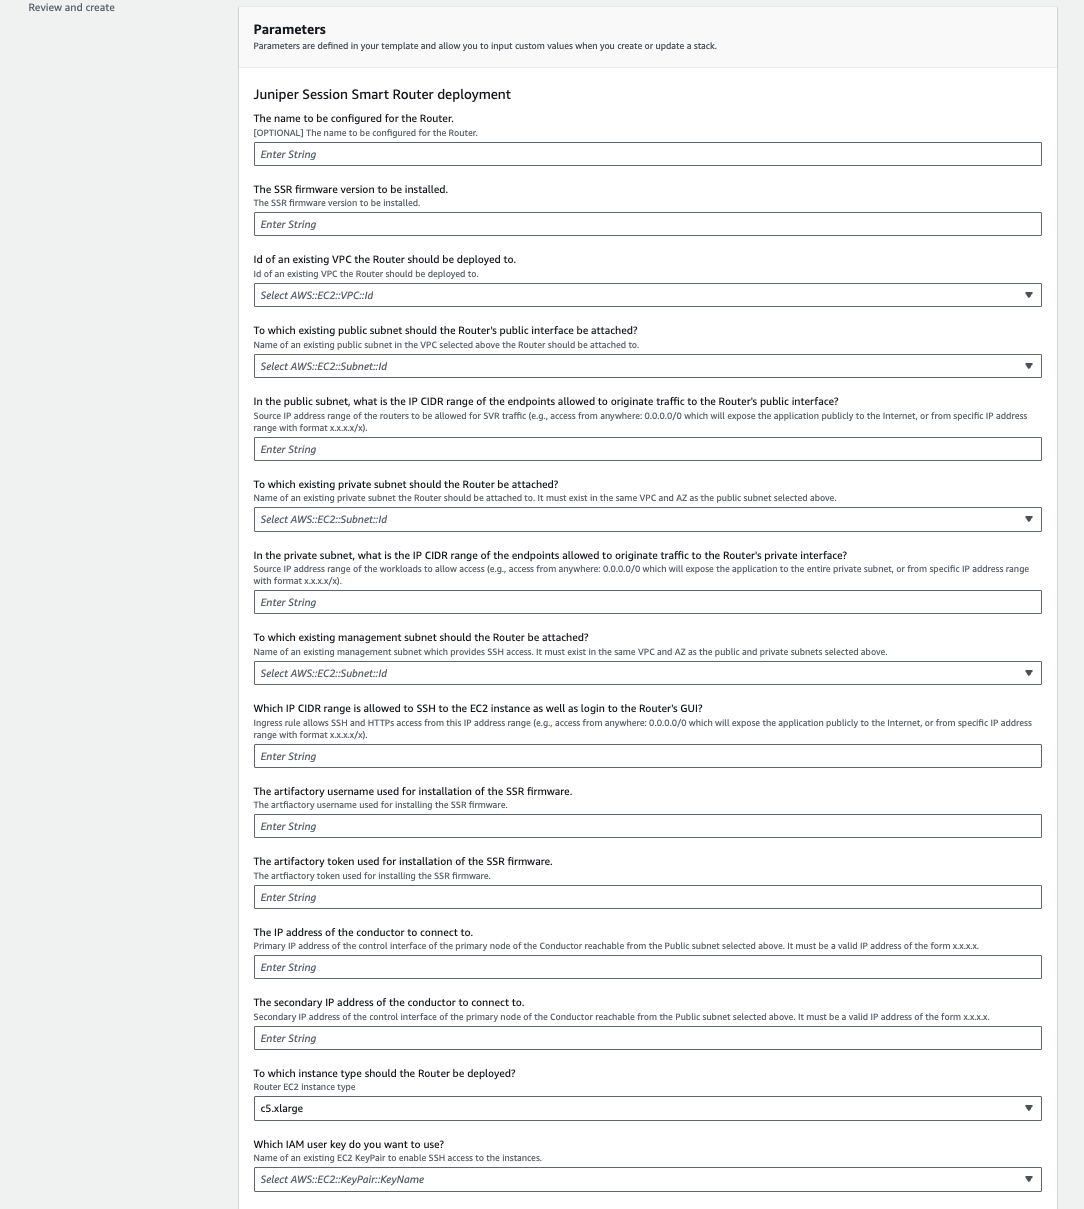
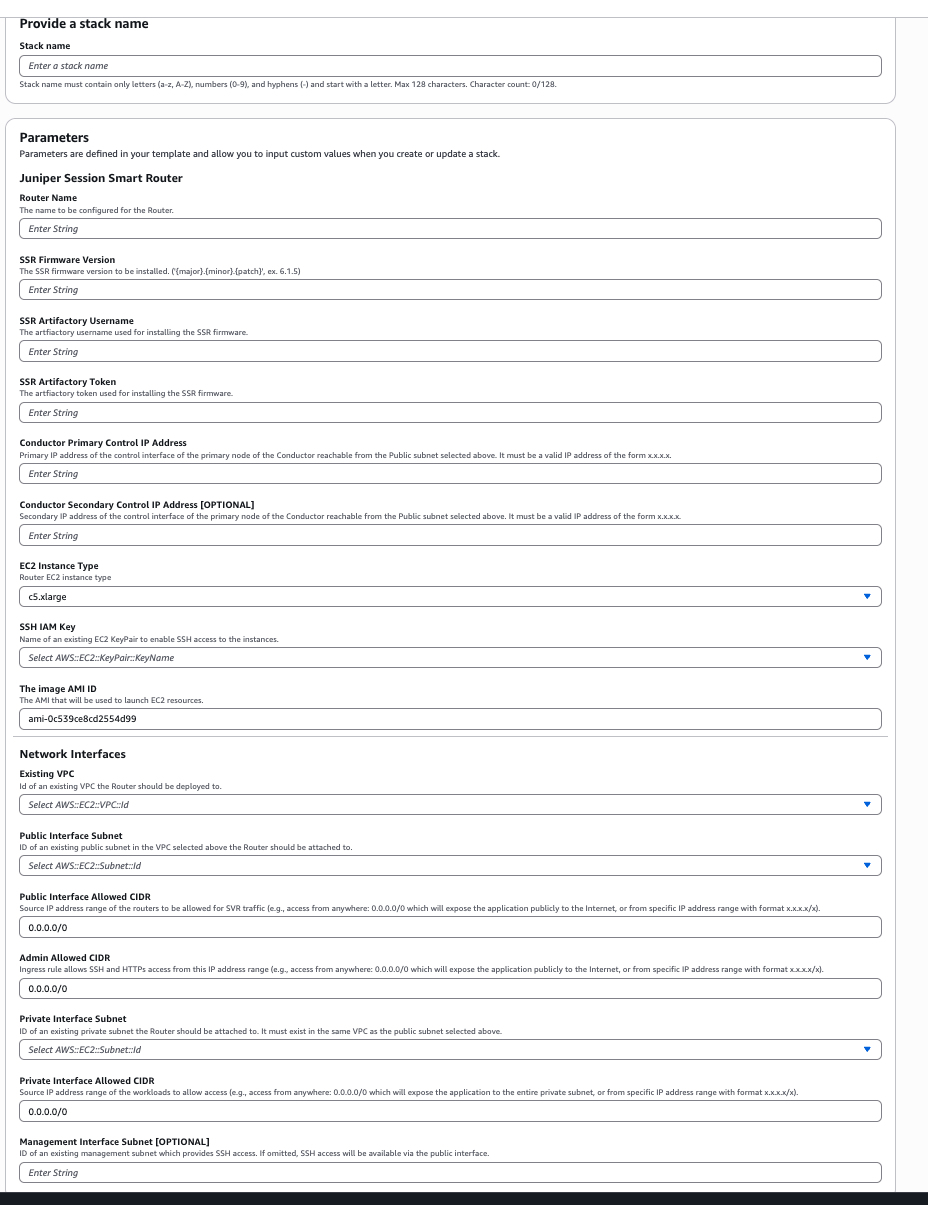
AWS byol 3.0

Changed region(s): [[0.0, 0.0, 1.0, 1.0], [0.9375, 0.1842, 0.9688, 0.2456]]

diff --git a/sidebars.js b/sidebars.js
@@ -68,6 +68,7 @@ module.exports = {
         "type": "category",
         "label": "BYOL Cloud Images",
         "items": [
+          "release_notes_byol_3.0",
           "release_notes_byol_2.0",
           "release_notes_byol"
         ]

diff --git a/docs/intro_installation_quickstart_byol_conductor_aws.md b/docs/intro_installation_quickstart_byol_conductor_aws.md
@@ -64,12 +64,12 @@ To deploy the Session Smart Networking software via the AWS Console:
 7. Answer the following questions to launch the deployment of an SSR. For a description of the parameters of the template, please refer to [Launch the Conductor Template](#launch-the-conductor-template).
 
 - What name do you want to give the instance?
-  - Provide it in the **Stack name** field (for example: Conductor).
+  - Provide it in the **Conductor Name** field (for example: conductor).
 - What version of SSR software do you want to install?
+- What are the artifactory credentials used to install the software?
 - Where do you want to deploy it?
   - Select the VPC in the region.
   - Select the subnet within the VPC.
-- What are the artifactory credentials used to install the software?
 - Who is going to be the administrator?
   - Select the IAM user key.
 8. Click **Next**.
@@ -110,7 +110,8 @@ write_files:
             "mode": "conductor",
             "artifactory-user": "<username>",
             "artifactory-password": "<password>",
-            "node-name": "node0"
+            "node-name": "node0",
+            "cloud-provider": "aws"
         }
 ```
 
@@ -143,14 +144,15 @@ A description of the parameters of the template are listed in the following tabl
 
 | Parameter            | Description |
 | -------------------- | ----------- |
-| Stack name           | The Instance Name field provides a name to the VM for the device.|
-| VPC ID               | ID of the existing VPC where the device is going to be deployed. |
-| Public Subnet ID     | ID of the management subnet within the VPC. |
-| Public Subnet Allowed CIDR | The IP CIDR range of the endpoints allowed to originate traffic to the Conductor's management interface in the management subnet. |
+| Name           | The Instance Name field provides a name to the VM for the device.|
+| Instance Type        | Size of the EC2 instance.|
+| SSR Version | SSR software version installed on the instance. |
 | Artifactory Username | User portion of the artifactory credentials used to install the SSR software. |
 | Artifactory Token | Token for the artifactory credentials used to install the SSR software. |
-| Version | SSR software version installed on the instance. |
-| Instance size        | Size of the EC2 instance.|
+| VPC ID               | ID of the existing VPC where the device is going to be deployed. |
+| Control Subnet ID     | ID of the control subnet within the VPC. |
+| Control Subnet Allowed CIDR | The IP CIDR range of the endpoints allowed to originate traffic to the Conductor's management interface in the management subnet. |
+| Admin Allowed CIDR | The IP CIDR range of the endpoints allowed to SSH to the EC2 instance as well as login to the Conductor's GUI. |
 | Key Name             | IAM user key (SSH public key) to login to the EC2 instance (Linux) via SSH.|
 
 
@@ -171,7 +173,7 @@ Once the deployment of the template is complete, information about the new route
 
 The information listed in the Outputs tab is the following:
 * Instance ID of the Router EC2 instance.
-* Public IP address of the public interface for administration purposes.
+* Public IP address of the Control interface for administration purposes.
 * SSH command to login to the Linux VM.
 
 #### AWS CLI
@@ -188,14 +190,15 @@ Paste the following JSON content. Please adjust the values to your specific envi
 
 ```
 {
-  "StackName": "<instance name>",
-  "VpcId": "<ID of the VPC>",
-  "ManagementSubnet": "<ID of the management subnet within the VPC>",
-  "ManagementSubnetAllowedCidr": "0.0.0.0/0",
+  "Name": "<instance name>",
+  "Version": "<ssr-version>",
+  "InstanceType": "c5.xlarge",
   "ArtifactoryUsername": "<username>",
   "ArtifactoryUsername": "<password>",
-  "SSRVersion": "<ssr-version>",
-  "InstanceType": "c5.xlarge",
+  "VpcId": "<ID of the VPC>",
+  "ControlSubnet": "<ID of the management subnet within the VPC>",
+  "ControlAllowedCidr": "0.0.0.0/0",
+  "AdminAllowedCidr": "0.0.0.0/0",
   "KeyName": "<username>"
 }
 ```
@@ -269,7 +272,7 @@ The following infrastructure must exist in your AWS account:
 * The existing VPC is segmented with at least the following three subnets:
   - **Public Subnet**: This subnet must provide connectivity to enable communication with external/remote SSR peers.
   - **Private Subnet**: This subnet must provide connectivity to internal workloads within the cloud.
-  - **Management Subnet**: This subnet is used for conductor-managed deployments, and has the following requirements:
+  - **[OPTIONAL] Management Subnet**: This subnet is used for conductor-managed deployments, and has the following requirements:
     * The subnet is reachable for SSH for administration purposes.
     * The interface of the Conductor that manages this router must be reachable from this subnet.
 * [Enable enhanced network](https://docs.aws.amazon.com/AWSEC2/latest/UserGuide/enhanced-networking-ena.html#enabling_enhanced_networking) with ENA for maximum throughput performance. For SSR routers, execute the following command from your local computer:
@@ -312,7 +315,7 @@ To deploy the Session Smart Networking software via the AWS Console:
 - What version of SSR software do you want to install?
 - Where do you want to deploy it?
   - Select the VPC in the region.
-  - Select the public, private, and management subnets within the VPC.
+  - Select the public, private, and optional management subnets within the VPC.
 - What are the artifactory credentials used to install the software?
 - What is the control IP address of the Conductor used to manage it?
 - **Optional** What is the secondary control IP address of the Conductor used to manage it?
@@ -354,7 +357,8 @@ write_files:
             "name": "<router-name>",
             "ssr-version": "<version>",
             “mode”: "conductor-managed",
-            “conductor-hosts”: ["<conductor-host>"]
+            “conductor-hosts”: ["<conductor-host>"],
+            "cloud-provider": "aws"
         }
 ```
 | Option | Meaning |
@@ -379,9 +383,9 @@ The _Session Smart Router Template_ deploys an EC2 instance for the SSR with two
 
 | Network Interface name | Subnet           | PCI Address     |
 | ---------------------- | ---------------- | ----------------|
-| ge-0-0                 | Management       | 0000:00:05.0    |
-| ge-0-1                 | Public           | 0000:00:06.0    |
-| ge-0-2                 | Private          | 0000:00:07.0    |
+| ge-0-0                 | Public           | 0000:00:05.0    |
+| ge-0-1                 | Private          | 0000:00:06.0    |
+| ge-0-2                 | Management       | 0000:00:07.0    |
 
 ### Launch the Conductor Managed Template
 
@@ -393,21 +397,22 @@ A description of the parameters of the template are listed in the following tabl
 
 | Parameter            | Description |
 | -------------------- | ----------- |
-| Stack name           | Fill out the Instance Name field to provide a name to the VM for the conductor-managed router.|
-| VPC ID               | ID of the existing VPC where the conductor-managed router is going to be deployed. |
-| Public Subnet ID     | ID of the public subnet within the VPC. |
-| Public Subnet Allowed CIDR | The IP CIDR range of the endpoints allowed to originate traffic to the Router's public interface in the public subnet. |
-| Private Subnet ID    | ID of the private subnet within the VPC. |
-| Private Subnet Allowed CIDR | The IP CIDR range of the endpoints allowed to originate traffic to the Router's private interface in the private subnet. |
-| Management Subnet ID | ID of the management subnet within the VPC. |
-| Management Allowed CIDR   | The IP CIDR range of the endpoints allowed to SSH to the EC2 instance as well as login to the Router's GUI. |
+| Name           | Fill out the Instance Name field to provide a name to the VM for the conductor-managed router.|
+| Version | SSR software version installed on the instance. |
 | Artifactory Username | User portion of the artifactory credentials used to install the SSR software. |
 | Artifactory Token | Token for the artifactory credentials used to install the SSR software. |
 | Primary Control IP | The primary IP address of the Conductor |
 | Secondary Control IP | The secondary IP address of the Conductor |
-| Version | SSR software version installed on the instance. |
-| Instance size        | Size of the EC2 instance.|
 | Key Name             | IAM user key (SSH public key) to login to the EC2 instance (Linux) via SSH.|
+| Instance size        | Size of the EC2 instance.|
+| VPC ID               | ID of the existing VPC where the conductor-managed router is going to be deployed. |
+| Public Subnet ID     | ID of the public subnet within the VPC. |
+| Public Subnet Allowed CIDR | The IP CIDR range of the endpoints allowed to originate traffic to the Router's public interface in the public subnet. |
+| Admin Allowed CIDR   | The IP CIDR range of the endpoints allowed to SSH to the EC2 instance as well as login to the Router's GUI. |
+| Private Subnet ID    | ID of the private subnet within the VPC. |
+| Private Subnet Allowed CIDR | The IP CIDR range of the endpoints allowed to originate traffic to the Router's private interface in the private subnet. |
+| Management Subnet ID | [OPTIONAL] ID of the management subnet within the VPC. |
+
 
 #### Using the AWS Console
 
@@ -443,20 +448,21 @@ Paste the following JSON content. Please adjust the values to your specific envi
 
 ```
 {
-  "StackName": "<instance name>",
+  "Name": "<instance name>",
+  "Version": "<ssr-version>",
+  "ArtifactoryUsername": "<username>",
+  "ArtifactoryToken": "<password>",
+  "conductorPrimaryControlIP": "<control-ip>",
+  "conductorSecondaryControlIP": "<control-ip>",
+  "InstanceType": "c5.xlarge",
+  "KeyName": "<username>"
   "VpcId": "<ID of the VPC>",
   "PublicSubnet": "<ID of the public subnet within the VPC>",
   "PublicSubnetAllowedCidr": "0.0.0.0/0",
   "PrivateSubnet": "<ID of the public subnet within the VPC>",
   "PrivateSubnetAllowedCidr": "0.0.0.0/0",
   "AdminAllowedCidr": "0.0.0.0/0",
-  "conductorPrimaryControlIP": "<control-ip>",
-  "conductorSecondaryControlIP": "<control-ip>",
-  "ArtifactoryUsername": "<username>",
-  "ArtifactoryUsername": "<password>",
-  "SSRVersion": "<ssr-version>",
-  "InstanceType": "c5.xlarge",
-  "KeyName": "<username>"
+  "ManagementSubnet": "<[OPTIONAL] ID of the management subnet within the VPC>",
 }
 ```
 
@@ -527,6 +533,7 @@ In addition to using the cloud formation template, the admin can tag the interfa
 | --------- | ------- |
 | WAN       | Interface is marked as WAN for onboarding purposes. |
 | LAN       | Interface is marked as LAN and is assumed to be used as a private network for internal workflows. |
+| MGMT       | Interface is marked as MGMT and is assumed to have SSH connectivity. |
 
 :::note
 The EC2 instance must be assigned the IAM role containing the `ec2_describeNetwork` permission to leverage the interface tagging.

diff --git a/docs/intro_installation_quickstart_byol_mist_aws.md b/docs/intro_installation_quickstart_byol_mist_aws.md
@@ -67,16 +67,16 @@ To deploy the Session Smart Networking software via the AWS Console:
 
 7. Answer the following questions to launch the deployment of an SSR. For a description of the parameters of the template, please refer to [Launch the Template](#launch-the-template).
 
-- What version of SSR software do you want to install?
 - What name do you want to give the instance?
-  - Provide it in the **Stack name** field (for example: SSR_1_Router).
-- Where do you want to deploy it?
-  - Select the VPC in the region.
-  - Select the public, private, and management subnets within the VPC.
+  - Provide it in the **Router Name** field (for example: SSR_1_Router).
 - Which Mist organization is going to manage it?
   Provide the [registration code](wan_onboarding_whitebox.md#manual-adoption) for the Mist organization.
+- What version of SSR software do you want to install?
 - Who is going to be the administrator?
   - Select the IAM user key.
+- Where do you want to deploy it?
+  - Select the VPC in the region.
+  - Select the public, private, and optional management subnets within the VPC.
 8. Click the **Next** button.
 9. Click on the **Create stack** button to launch the deployment.
 
@@ -118,7 +118,7 @@ write_files:
 ### Manual Onboarding
 If a user does not supply the onboarding configuration before launching the instance, the onboarding steps can be manually executed.
 
-1. Log into the instance using the default AWS username `ec2-user` and the key pair provided when launching.
+1. Log into the instance using the default SSR username `t128` and the key pair provided when launching.
 2. Run `/usr/libexec/hardwareBootstrapper128t config-generator`
 3. Follow the prompts to generate and apply the onboarding configuration.
 
@@ -136,12 +136,13 @@ If the device does not show up in the Mist organization or the desired SSR versi
 
 ### Network Interfaces Layout
 
-The _Session Smart Router Template_ deploys an EC2 instance for the SSR with two network interfaces. The template attaches the network interfaces to the EC2 instance in the following order: Public, and Private. The network interfaces to be used in Mist configuration are as follows:
+The _Session Smart Router Template_ deploys an EC2 instance for the SSR with two network interfaces. The template attaches the network interfaces to the EC2 instance in the following order: Public, private, and Management. The network interfaces to be used in Mist configuration are as follows:
 
 | Network Interface Name | Subnet           | Mist Config Name     |
 | ---------------------- | ---------------- | ----------------|
 | ge-0-0                 | Public           | ge-0/0/0    |
 | ge-0-1                 | Private          | ge-0/0/1    |
+| ge-0-2                 | Management       | Out Of Band Management    |
 
 #### Interface Tagging
 
@@ -149,11 +150,12 @@ In addition to using the cloud formation template, the admin can tag the interfa
 
 | Tag Value | Meaning |
 | --------- | ------- |
-| WAN       | Interface is marked as WAN for onboarding purposes and is assumed to have connectivity to Mist cloud infrastructure. |
+| WAN       | Interface is marked as WAN for onboarding purposes. Without a MGMT interface, it is assumed to have connectivity to Mist cloud infrastructure. |
 | LAN       | Interface is marked as LAN and is assumed to be used as a private network for internal workflows. |
+| MGMT       | Interface is marked as MGMT and is assumed to have connectivity to Mist cloud infrastructure. |
 
 :::note
-The EC2 instance must be assigned the IAM role containing the `ec2_describeNetwork` permission to leverage the interface tagging.
+The EC2 instance must be assigned the IAM role containing the `ec2_describeNetwork` permission to leverage the interface tagging. This is automatically done when using the provided templates.
 :::
 
 ## Source / Destination Check
@@ -180,17 +182,18 @@ A description of the parameters of the template are listed in the following tabl
 
 | Parameter            | Description |
 | -------------------- | ----------- |
-| Stack name           | Fill out the Instance Name field to provide a name to the VM for the Mist-managed router.|
-| VPC ID               | ID of the existing VPC where the Mist-managed router is going to be deployed. |
-| Public Subnet ID     | ID of the public subnet within the VPC. |
-| Public Subnet Allowed CIDR | The IP CIDR range of the endpoints allowed to originate traffic to the Router's public interface in the public subnet. |
-| Private Subnet ID    | ID of the private subnet within the VPC. |
-| Private Subnet Allowed CIDR | The IP CIDR range of the endpoints allowed to originate traffic to the Router's private interface in the private subnet. |
-| Admin Allowed CIDR   | The IP CIDR range of the endpoints allowed to SSH to the EC2 instance as well as login to the Router's GUI. |
-| Registration Code   | The Mist registration used for adoption of the EC2 instance to a Mist organization. |
+| Router Name          | Name of the VM for the Mist-managed router.|
 | Version | SSR software version installed on the instance. |
+| Registration Code   | The Mist registration used for adoption of the EC2 instance to a Mist organization. |
 | Instance size        | Size of the EC2 instance.|
-| Key Name             | IAM user key (SSH public key) to login to the EC2 instance (Linux) via SSH.|
+| SSH IAM Key             | IAM user key (SSH public key) to login to the EC2 instance (Linux) via SSH.|
+| VPC ID               | ID of the existing VPC where the Mist-managed router is going to be deployed. |
+| Public Inteface Subnet     | ID of the public subnet within the VPC. |
+| Public Interface Allowed CIDR | The IP CIDR range of the endpoints allowed to originate traffic to the Router's public interface in the public subnet. |
+| Admin Allowed CIDR   | The IP CIDR range of the endpoints allowed to SSH to the EC2 instance as well as login to the Router's GUI. |
+| Private Interface Subnet    | ID of the private subnet within the VPC. |
+| Private Subnet Allowed CIDR | The IP CIDR range of the endpoints allowed to originate traffic to the Router's private interface in the private subnet. |
+| Mangement Interface Subnet [OPTIONAL]    | Optional ID of the management subnet within the VPC. |
 
 #### AWS Console
 
@@ -226,17 +229,18 @@ Paste the following JSON content. Please adjust the values to your specific envi
 
 ```
 {
-  "StackName": "<instance name>",
+  "Name": "<instance name>",
+  "Version": "<ssr-version>",
+  "RegistrationCode": "<Registration-code>",
+  "InstanceType": "c5.xlarge",
+  "KeyName": "<ssh-key-name>"
   "VpcId": "<ID of the VPC>",
   "PublicSubnet": "<ID of the public subnet within the VPC>",
   "PublicSubnetAllowedCidr": "0.0.0.0/0",
-  "PrivateSubnet": "<ID of the public subnet within the VPC>",
-  "PrivateSubnetAllowedCidr": "0.0.0.0/0",
   "AdminAllowedCidr": "0.0.0.0/0",
-  "RegistrationCode": "<Registration code>",
-  "SSRVersion": "<ssr-version>",
-  "InstanceType": "c5.xlarge",
-  "KeyName": "<username>"
+  "PrivateSubnet": "<ID of the private subnet within the VPC>",
+  "PrivateSubnetAllowedCidr": "0.0.0.0/0",
+  "ManagementSubnet": "<Optional ID of the management subnet within the VPC>"
 }
 ```
 

diff --git a/docs/release_notes_byol_3.0.md b/docs/release_notes_byol_3.0.md
@@ -1,0 +1,20 @@
+---
+title: Bring Your Own License (BYOL)
+sidebar_label: '3.0'
+---
+## Release 3.0.0
+
+**Release Date:** June 26, 2025
+
+### New Features
+- **I95-59197 BYOL support for EL9:** Update The base BYOL image to use Oracle Linux 9.
+- **I95-60147 Conditionally management subnet:** The Management Interface is now optional in all SSR templates.
+- **WAN-3513 Support Azure VMBus UUID in UDev rules:** Added support for Azure VMBus UUID in UDev rules instead of MAC Addresses.
+- **I95-60201 AWS IMDSv2 Support:** Added support for IMDSv2 in AWS for added security. For more information, please see the [AWS documentation](https://docs.aws.amazon.com/AWSEC2/latest/UserGuide/configuring-instance-metadata-service.html).
+- **I95-60148 Template Improvements** General quality of life improvements to the provided AWS and Azure templates.
+
+
+### Resolved Issues
+- **I95-60395 AWS BYOL Mist Manual Onboarding Method Fails** An erroneous IP route to the IMDS endpoint was being created on the wrong interface causing the instance to fail onboarding.
+- **WAN-4006 Password authentication is allowed and authorized keys are not copied over** SSR default passwords were created and the configured authorized keys were not copied once SSR software was installed.
+- **I95-60102 Management interface setup is incorrect** The provided conductor-managed and mist-managed router templates created a `management` inteface, but it was not configured as out of band management.
